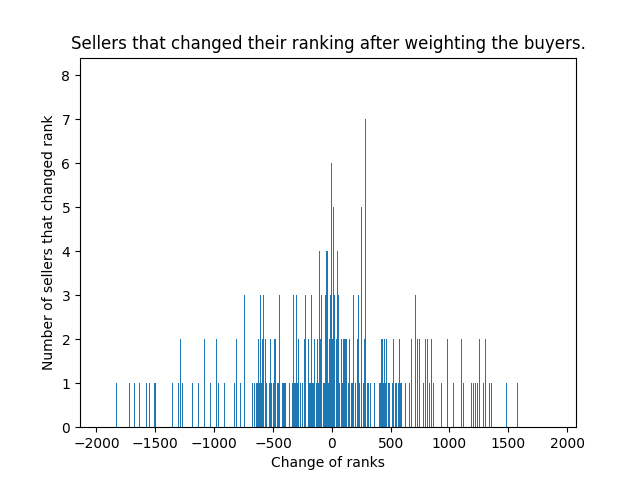
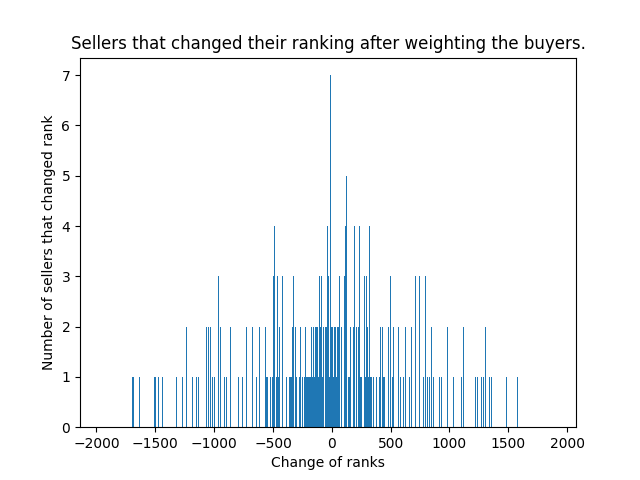
added bagged plot from matheus

diff --git a/src/run.py b/src/run.py
@@ -98,6 +98,7 @@ def analyze_entire_network(network, verbose):
             Out of all 4-node-components, 2 have more than 3 edges. Both have 4 egdes.
             One has 4 edges with +1 reviews, making them little informative.
             But it has to be said that the component consists of 1 seller and 3 buyers, which all seemed to be satisfied with the product/service.
+            
             The other has 4 edges with one 0 review and three -1 reviews, outlining it as either a bad service/product
             or as highly critical buyers, who expected more from their purchase.
             Looking closer at the components reveals that it consists of 2 sellers and 2 buyers.
@@ -105,7 +106,7 @@ def analyze_entire_network(network, verbose):
             In chronological order:
             1. b2 bought from s2 and left a review of -1
             2. b2 bought from s2 and left a review of -1 AGAIN
-            3. b2 bought from s1 and left a review of 0
+            3. b2 bought from s1 and left a review of  0
             4. b1 bought from s1 and left a review of -1
 
             If this would be put into a little context, it could be told as so:
@@ -224,6 +225,7 @@ def analyze_giant_component(comp, network, verbose):
     weighted_seller_ranking_list = sort_avg_review_list(weighted_seller_list)
     change_counter_dict = compare_weighted_with_unweighted(weighted_seller_ranking_list, ranking_review_seller)
     plot_change_counter_dict(change_counter_dict)
+    plot_bagged_change_counter_dict(change_counter_dict)
 
 
 def plot_change_counter_dict(change_counter_dict):
@@ -237,6 +239,28 @@ def plot_change_counter_dict(change_counter_dict):
     #plt.show()
     plt.savefig("../plots/rank_change_of_sellers_after_weighting_buyers.png")
     plt.close()   
+
+
+def plot_bagged_change_counter_dict(change_counter_dict, bag_size=100):
+    # Source: https://stackoverflow.com/a/37266356
+    bagged_dict = dict()
+    lists = sorted(change_counter_dict.items()) # sorted by key, return a list of tuples
+    for x1, x2 in lists:
+        bag = ((x1 + 2000) // bag_size) - (2000 // bag_size)
+        if bag not in bagged_dict.keys():
+            bagged_dict[bag] = x2
+        else:
+            bagged_dict[bag] += x2
+    
+    lists = sorted(bagged_dict.items()) # sorted by key, return a list of tuples
+    x, y = zip(*lists) # unpack a list of pairs into two tuples
+    plt.bar(x, y)
+    plt.title(f'Sellers that changed their ranking after weighting the buyers\nbag size = {bag_size}')
+    plt.xlabel('Change of ranks')
+    plt.ylabel('Number of sellers that changed rank')
+    #plt.show()
+    plt.savefig(f'../plots/{bag_size}bag_rank_change_of_sellers_after_weighting_buyers.png')
+    plt.close()
 
 
 def compare_weighted_with_unweighted(weighted_ranking, unweighted_ranking):
